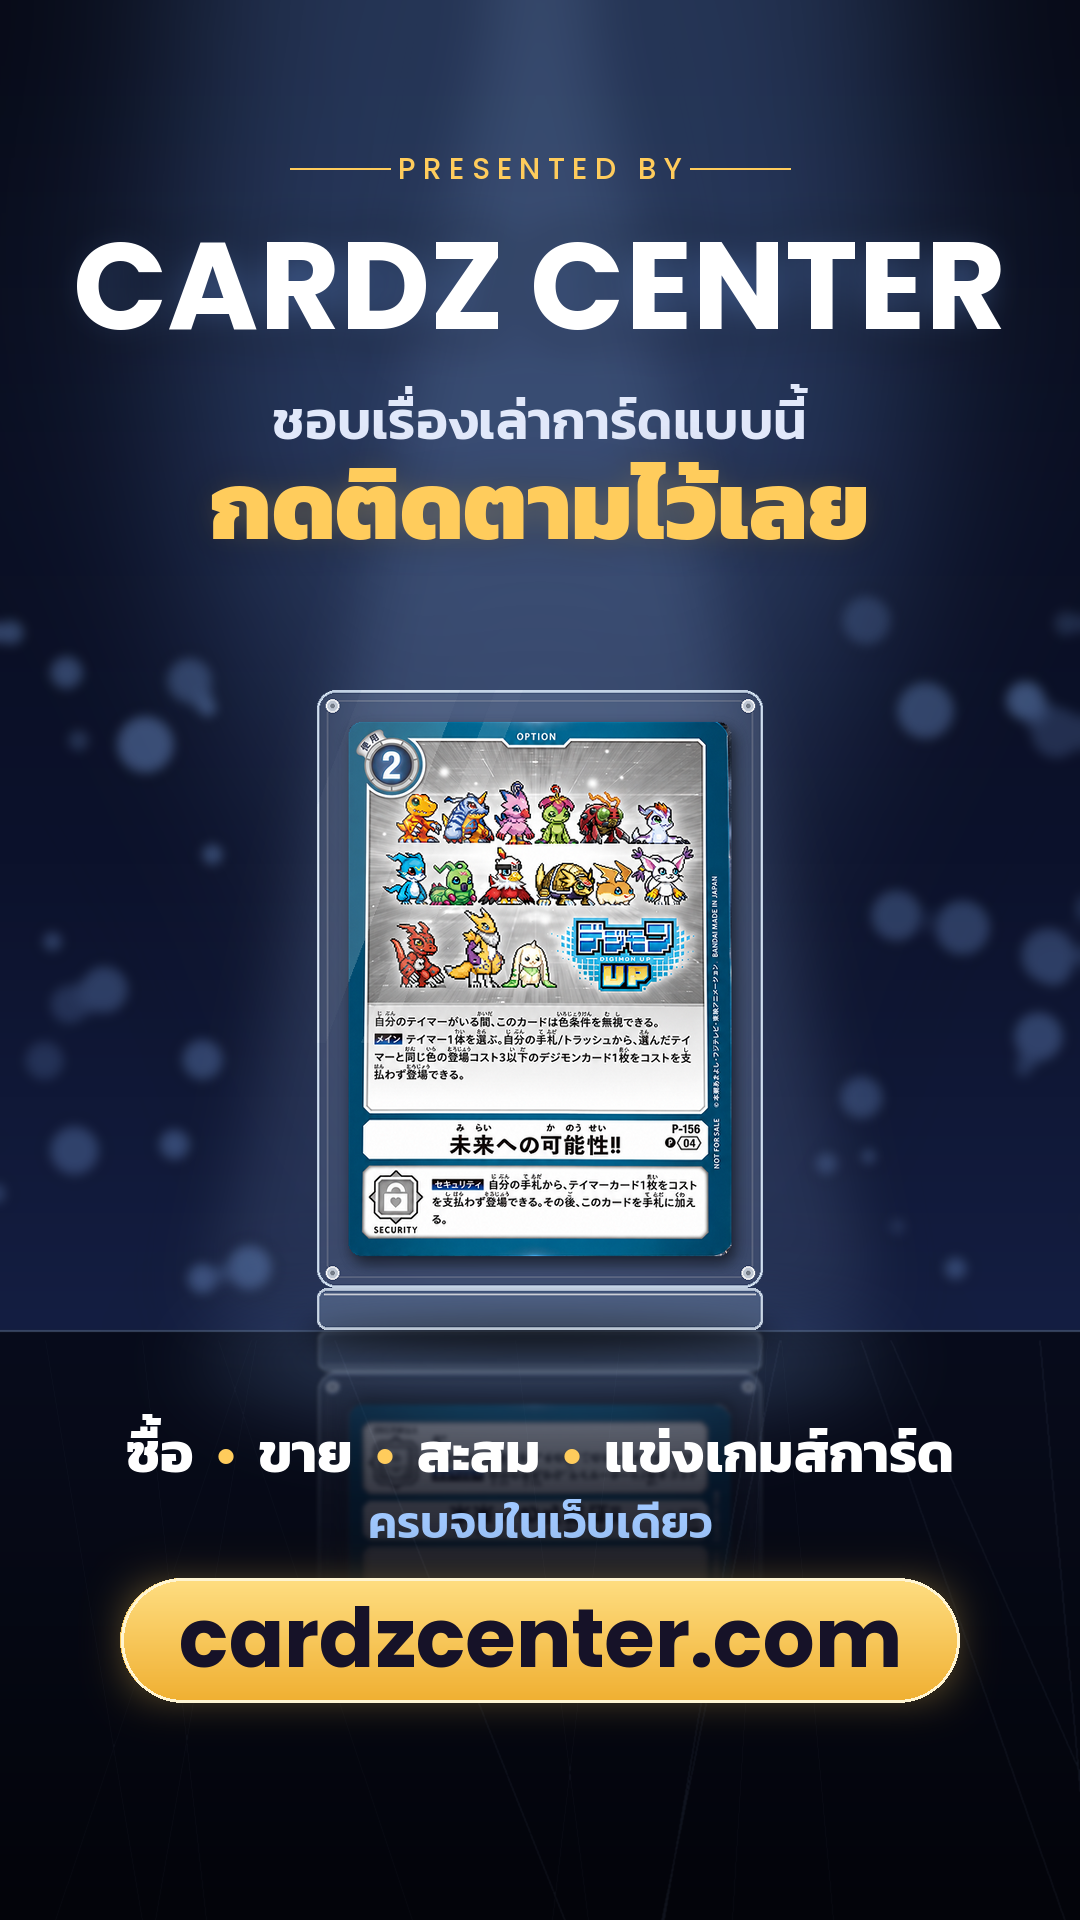
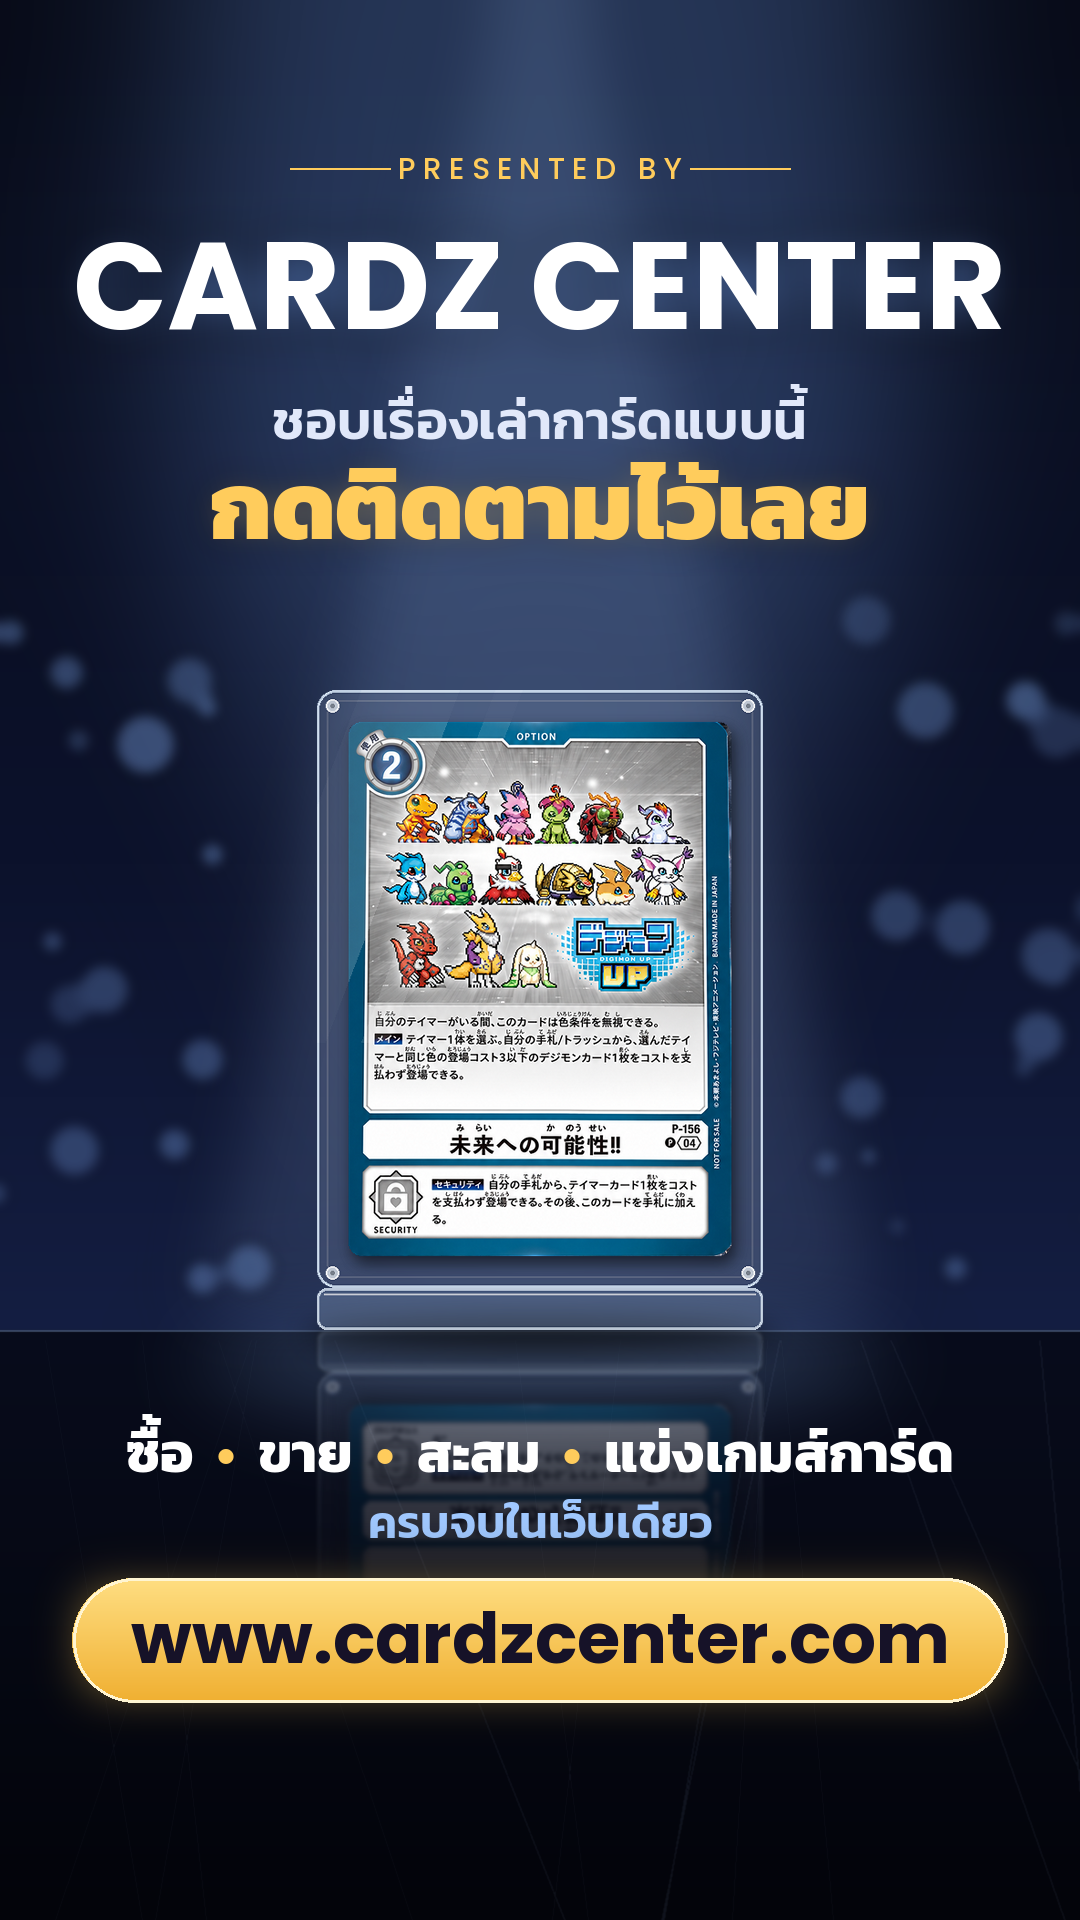
Outro: 5 high-value cards, www.cardzcenter.com
Claude-Session: https://claude.ai/code/session_01MknZDHFWtSN2SuGiaria19

Changed region(s): [[0.0611, 0.8125, 0.9472, 0.9062]]

diff --git a/server/outro_compose.py b/server/outro_compose.py
@@ -184,13 +184,14 @@ for j, w_ in enumerate(words):
     if j < len(words) - 1:
         d.text((x, 1452), dot, font=f, fill=GOLD, anchor="lm"); x += d.textlength(dot, font=f)
 d.text((W // 2, 1522), "ครบจบในเว็บเดียว", font=F(KS, 46), fill=(160, 200, 255), anchor="mm")
-fu = F(PB, 82); tw = d.textlength("cardzcenter.com", font=fu); x0 = W / 2 - tw / 2 - 58; x1 = W / 2 + tw / 2 + 58
+URL = "www.cardzcenter.com"
+fu = F(PB, 70); tw = d.textlength(URL, font=fu); x0 = W / 2 - tw / 2 - 58; x1 = W / 2 + tw / 2 + 58
 im.alpha_composite(glow_layer((W, H), [("rounded_rectangle", (x0, 1578, x1, 1702), GOLD + (150,))], 28))
 pill = vgrad(int(x1 - x0), 124, [(0, (255, 222, 130)), (1, (240, 176, 50))])
 pm = Image.new("L", pill.size, 0); ImageDraw.Draw(pm).rounded_rectangle((0, 0, pill.width - 1, 123), radius=62, fill=255)
 im.paste(pill, (int(x0), 1578), pm)
 d = ImageDraw.Draw(im)
 d.rounded_rectangle((x0, 1578, x1, 1702), radius=62, outline=(255, 245, 210), width=3)
-d.text((W // 2, 1638), "cardzcenter.com", font=fu, fill=(22, 18, 40), anchor="mm")
+d.text((W // 2, 1638), URL, font=fu, fill=(22, 18, 40), anchor="mm")
 
 im.convert("RGB").save(OUT)
